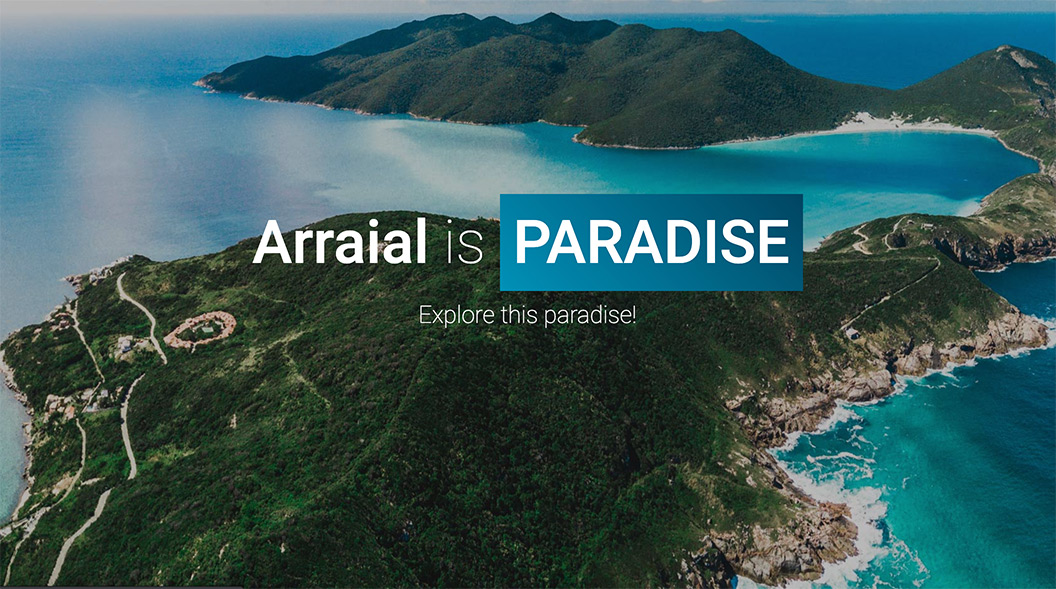
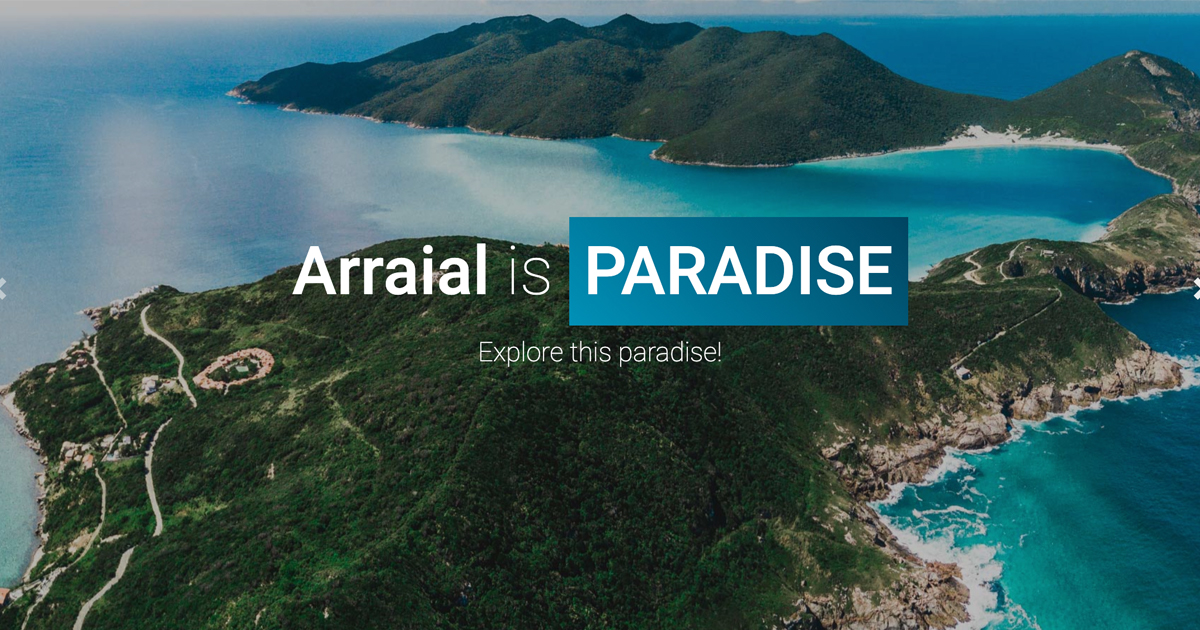
404 change e cover tamanho correto

diff --git a/public/404.html b/public/404.html
@@ -6,7 +6,8 @@
   <title>The page you were looking for doesn't exist (404)</title>
   <meta name="viewport" content="width=device-width,initial-scale=1">
   <link href="https://fonts.googleapis.com/css?family=Nunito:400,700" rel="stylesheet">
-  <link rel="stylesheet" href="path/to/font-awesome/css/font-awesome.min.css">
+  <link rel="stylesheet" href="https://stackpath.bootstrapcdn.com/bootstrap/4.3.1/css/bootstrap.min.css" integrity="sha384-ggOyR0iXCbMQv3Xipma34MD+dH/1fQ784/j6cY/iJTQUOhcWr7x9JvoRxT2MZw1T" crossorigin="anonymous">
+  <link rel="stylesheet" href="https://use.fontawesome.com/releases/v5.0.10/css/all.css">
 
   <style>
 
@@ -122,7 +123,6 @@
 
       </div class="error">
       <div class="cloud">
-        <i class="fas fa-cloud-showers-heavy"></i>
       </div>
       <div>
         <h2>404 - Page not found </h2>

diff --git a/app/models/company.rb b/app/models/company.rb
@@ -1,3 +1,7 @@
+require 'open-uri'
+require 'nokogiri'
+
+
 class Company < ApplicationRecord
   belongs_to :user
   has_many :products, dependent: :destroy
@@ -5,4 +9,14 @@ class Company < ApplicationRecord
   validates :cnpj, format: { with: /\A\d{2}\.\d{3}\.\d{3}\/\d{4}\-\d{2}\z/, message: "invalid CNPJ" }
   geocoded_by :address
   after_validation :geocode, if: :will_save_change_to_address?
+
+  def self.parse_trip_advisor
+
+    html_content = open('https://www.tripadvisor.com.br/Attractions-g1056623-Activities-c55-Arraial_do_Cabo_State_of_Rio_de_Janeiro.html').read
+    doc = Nokogiri::HTML(html_content)
+    puts doc
+    doc.search('._6sUF3jUd').each_with_index do |element, index|
+      puts "#{index + 1}. #{element}"
+    end
+  end
 end
